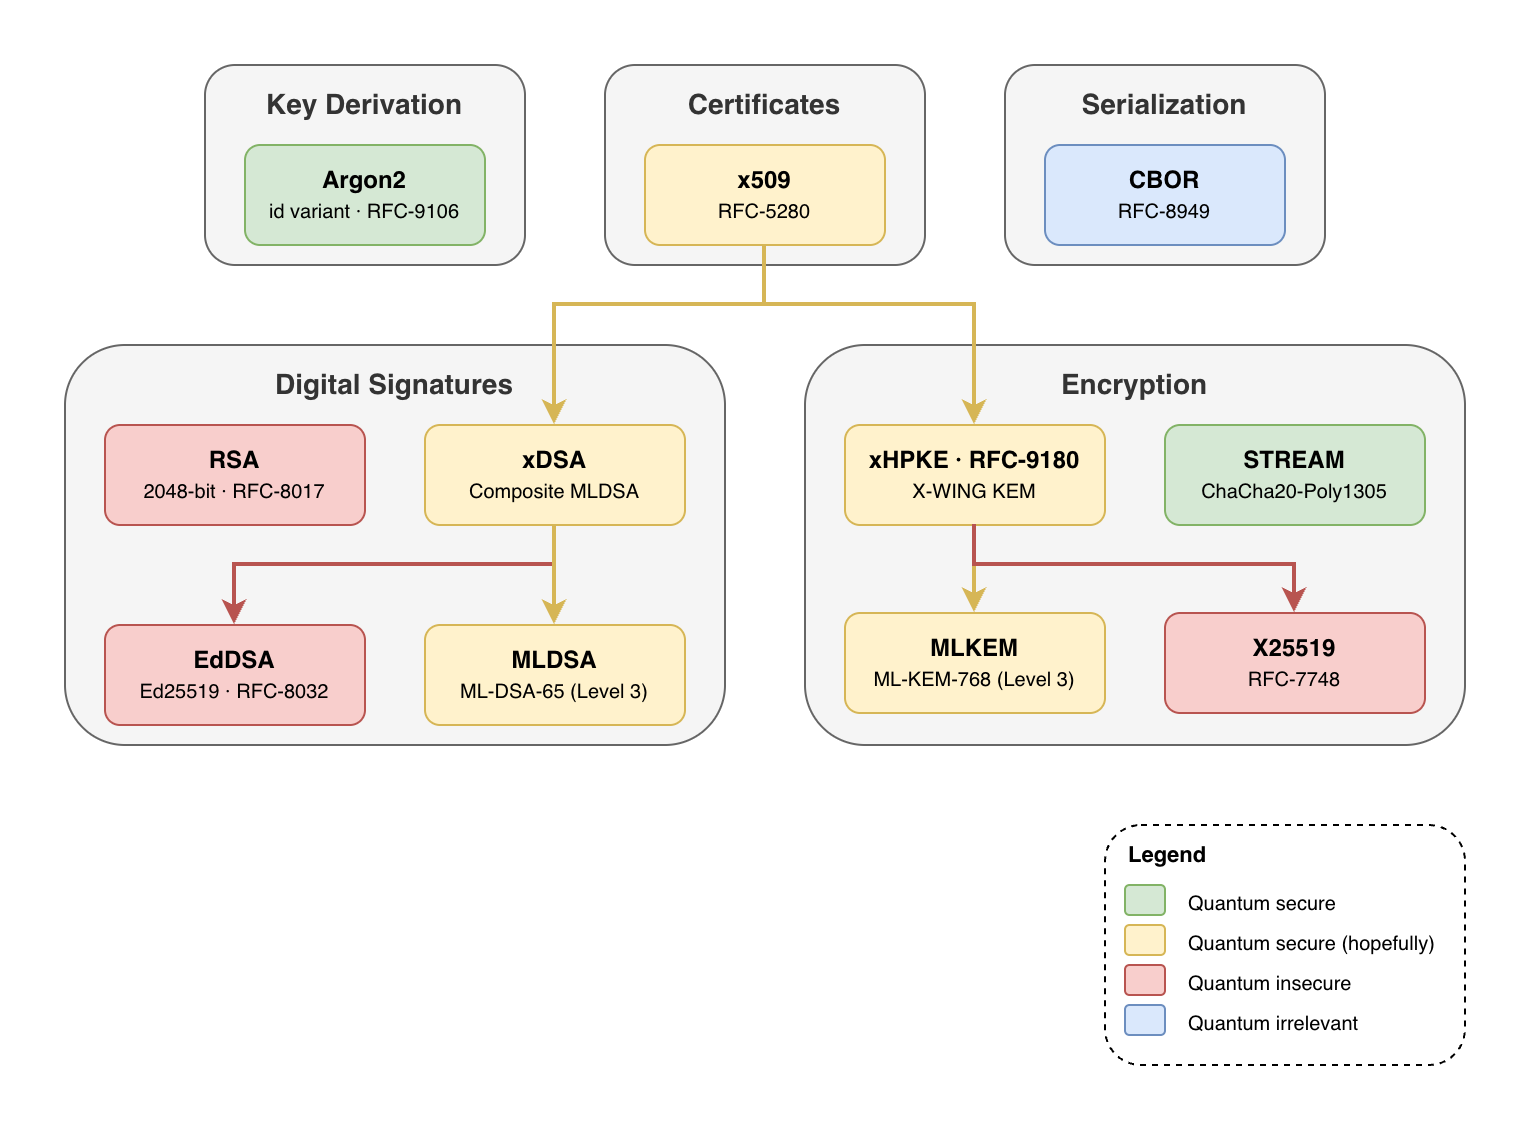
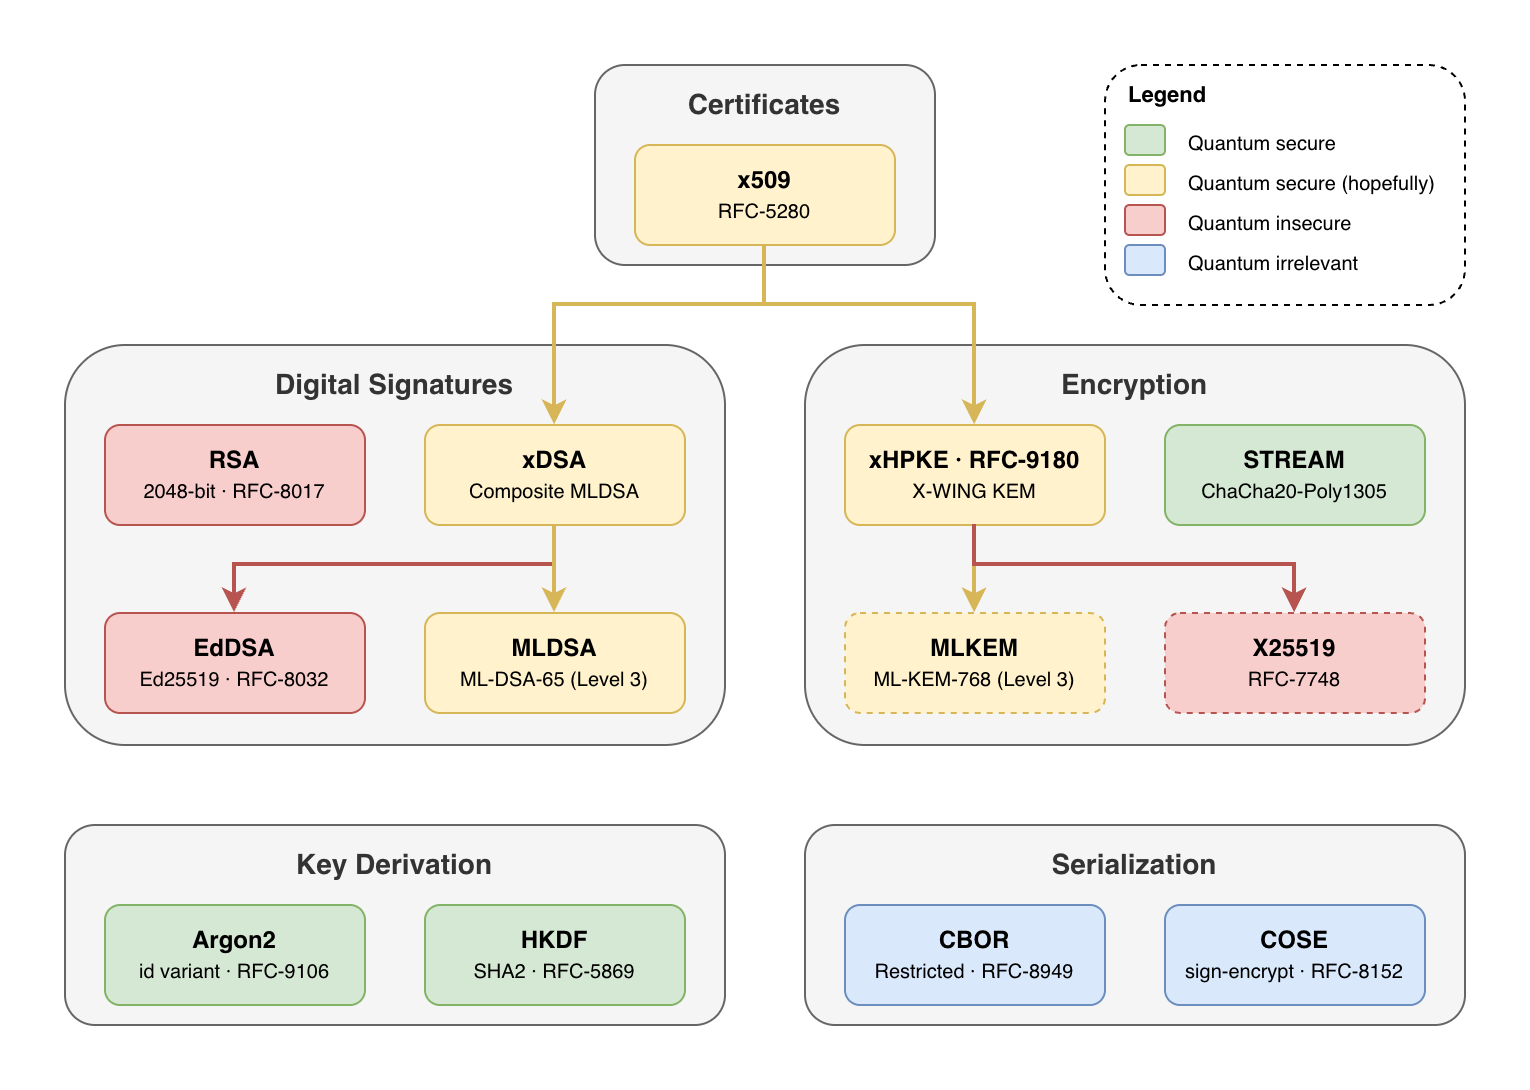
hkdf: wrap the hash based key derivation too

diff --git a/src/hkdf/mod.rs b/src/hkdf/mod.rs
@@ -1,0 +1,93 @@
+// crypto-rs: cryptography primitives and wrappers
+// Copyright 2025 Dark Bio AG. All rights reserved.
+//
+// Use of this source code is governed by a BSD-style
+// license that can be found in the LICENSE file.
+
+//! HKDF cryptography wrappers and parametrization.
+//!
+//! https://datatracker.ietf.org/doc/html/rfc5869
+
+use hkdf::Hkdf;
+use sha2::Sha256;
+
+/// Key derives a key from the secret, salt, and info using HKDF-SHA256,
+/// returning a fixed byte array that can be used as a cryptographic key.
+///
+/// # Panics
+///
+/// Panics if N exceeds the maximum output length for SHA-256 HKDF, which is
+/// 255 * 32 = 8160 bytes.
+pub fn key<const N: usize>(secret: &[u8], salt: &[u8], info: &[u8]) -> [u8; N] {
+    let salt = if salt.is_empty() { None } else { Some(salt) };
+    let hkdf = Hkdf::<Sha256>::new(salt, secret);
+
+    let mut output = [0u8; N];
+    hkdf.expand(info, &mut output).unwrap();
+    output
+}
+
+#[cfg(test)]
+mod tests {
+    use super::*;
+
+    // Test vectors from RFC 5869 Appendix A (SHA-256).
+    #[test]
+    fn test_hkdf() {
+        struct TestCase {
+            secret: &'static str,
+            salt: &'static str,
+            info: &'static str,
+            out: &'static str,
+        }
+        let tests = [
+            // RFC 5869 A.1: Basic test case with SHA-256
+            TestCase {
+                secret: "0b0b0b0b0b0b0b0b0b0b0b0b0b0b0b0b0b0b0b0b0b0b",
+                salt: "000102030405060708090a0b0c",
+                info: "f0f1f2f3f4f5f6f7f8f9",
[1 lines of base64/hex data omitted]
+                      34007208d5b887185865",
+            },
+            // RFC 5869 A.2: Test with SHA-256 and longer inputs/outputs
+            TestCase {
[2 lines of base64/hex data omitted]
+                         404142434445464748494a4b4c4d4e4f",
[2 lines of base64/hex data omitted]
+                       a0a1a2a3a4a5a6a7a8a9aaabacadaeaf",
[2 lines of base64/hex data omitted]
+                       f0f1f2f3f4f5f6f7f8f9fafbfcfdfeff",
[2 lines of base64/hex data omitted]
+                      cc30c58179ec3e87c14c01d5c1f3434f1d87",
+            },
+            // RFC 5869 A.3: Test with SHA-256 and zero-length salt/info
+            TestCase {
+                secret: "0b0b0b0b0b0b0b0b0b0b0b0b0b0b0b0b0b0b0b0b0b0b",
+                salt: "",
+                info: "",
[1 lines of base64/hex data omitted]
+                      9d201395faa4b61a96c8",
+            },
+        ];
+        fn run<const N: usize>(secret: &str, salt: &str, info: &str, out: &str) {
+            let secret = hex::decode(secret).unwrap();
+            let salt = hex::decode(salt).unwrap();
+            let info = hex::decode(info).unwrap();
+            let expected = hex::decode(out).unwrap();
+
+            let got: [u8; N] = key(&secret, &salt, &info);
+            assert_eq!(got.as_slice(), expected.as_slice());
+        }
+        for tc in tests {
+            match hex::decode(tc.out).unwrap().len() {
+                42 => run::<42>(tc.secret, tc.salt, tc.info, tc.out),
+                82 => run::<82>(tc.secret, tc.salt, tc.info, tc.out),
+                n => panic!("unsupported output length: {}", n),
+            }
+        }
+    }
+}

diff --git a/src/argon2/mod.rs b/src/argon2/mod.rs
@@ -11,14 +11,14 @@
 use argon2::{Algorithm, Argon2, Params, Version};
 
 /// Key derives a key from the password, salt, and cost parameters using
-/// Argon2id returning a byte slice of length keyLen that can be used as
+/// Argon2id returning a fixed-size byte array that can be used as a
 /// cryptographic key. The CPU cost and parallelism degree must be greater
 /// than zero.
 ///
 /// For example, you can get a derived key for e.g. AES-256 (which needs a
 /// 32-byte key) by doing:
 ///
-///   let key = argon2::key(b"password", b"salt", 1, 64*1024, 4, 32);
+///   let key: [u8; 32] = argon2::key(b"password", b"salt", 1, 64*1024, 4);
 ///
 /// [RFC 9106 Section 7.4] recommends time=1, and memory=2048*1024 as a sensible
 /// number. If using that amount of memory (2GB) is not possible in some contexts
@@ -31,18 +31,17 @@ use argon2::{Algorithm, Argon2, Params, Version};
 /// good random salt.
 ///
 /// [RFC 9106 Section 7.4]: https://www.rfc-editor.org/rfc/rfc9106.html#section-7.4
-pub fn key(
+pub fn key<const N: usize>(
     password: &[u8],
     salt: &[u8],
     time: u32,
     memory: u32,
     threads: u32,
-    keylen: usize,
-) -> Vec<u8> {
-    let params = Params::new(memory, time, threads, Some(keylen)).expect("invalid Argon2 params");
+) -> [u8; N] {
+    let params = Params::new(memory, time, threads, Some(N)).expect("invalid Argon2 params");
     let argon2 = Argon2::new(Algorithm::Argon2id, Version::V0x13, params);
 
-    let mut output = vec![0u8; keylen];
+    let mut output = [0u8; N];
     argon2
         .hash_password_into(password, salt, &mut output)
         .expect("Argon2 hashing failed");
@@ -117,10 +116,10 @@ mod tests {
         let password = b"password";
         let salt = b"somesalt";
 
-        for (_, v) in tests.iter().enumerate() {
+        for v in tests {
             let want = hex::decode(v.hash).unwrap();
-            let have = key(password, salt, v.time, v.memory, v.threads, want.len());
-            assert_eq!(have, want);
+            let have: [u8; 24] = key(password, salt, v.time, v.memory, v.threads);
+            assert_eq!(have.as_slice(), want.as_slice());
         }
     }
 }

diff --git a/src/lib.rs b/src/lib.rs
@@ -12,6 +12,9 @@
 #[cfg(feature = "argon2")]
 pub mod argon2;
 
+#[cfg(feature = "hkdf")]
+pub mod hkdf;
+
 #[cfg(feature = "cbor")]
 pub mod cbor;
 

diff --git a/README.md b/README.md
@@ -23,6 +23,7 @@ This repository is parameter selection and lightweight wrapper around a number o
   - **STREAM (*RFC N/A*)**: `ChaCha20`, `Poly1305`, `16B` tag, `64KB` chunk
 - Key derivation
   - **Argon2 ([RFC-9106](https://datatracker.ietf.org/doc/html/rfc9106))**: `id` variant
+  - **HKDF ([RFC-5869](https://datatracker.ietf.org/doc/html/rfc5869))**: `SHA256`
 - Serialization
   - **CBOR ([RFC-8949](https://datatracker.ietf.org/doc/html/rfc8949))**: restricted to `integer`, `text`, `bytes`, `array`
 
